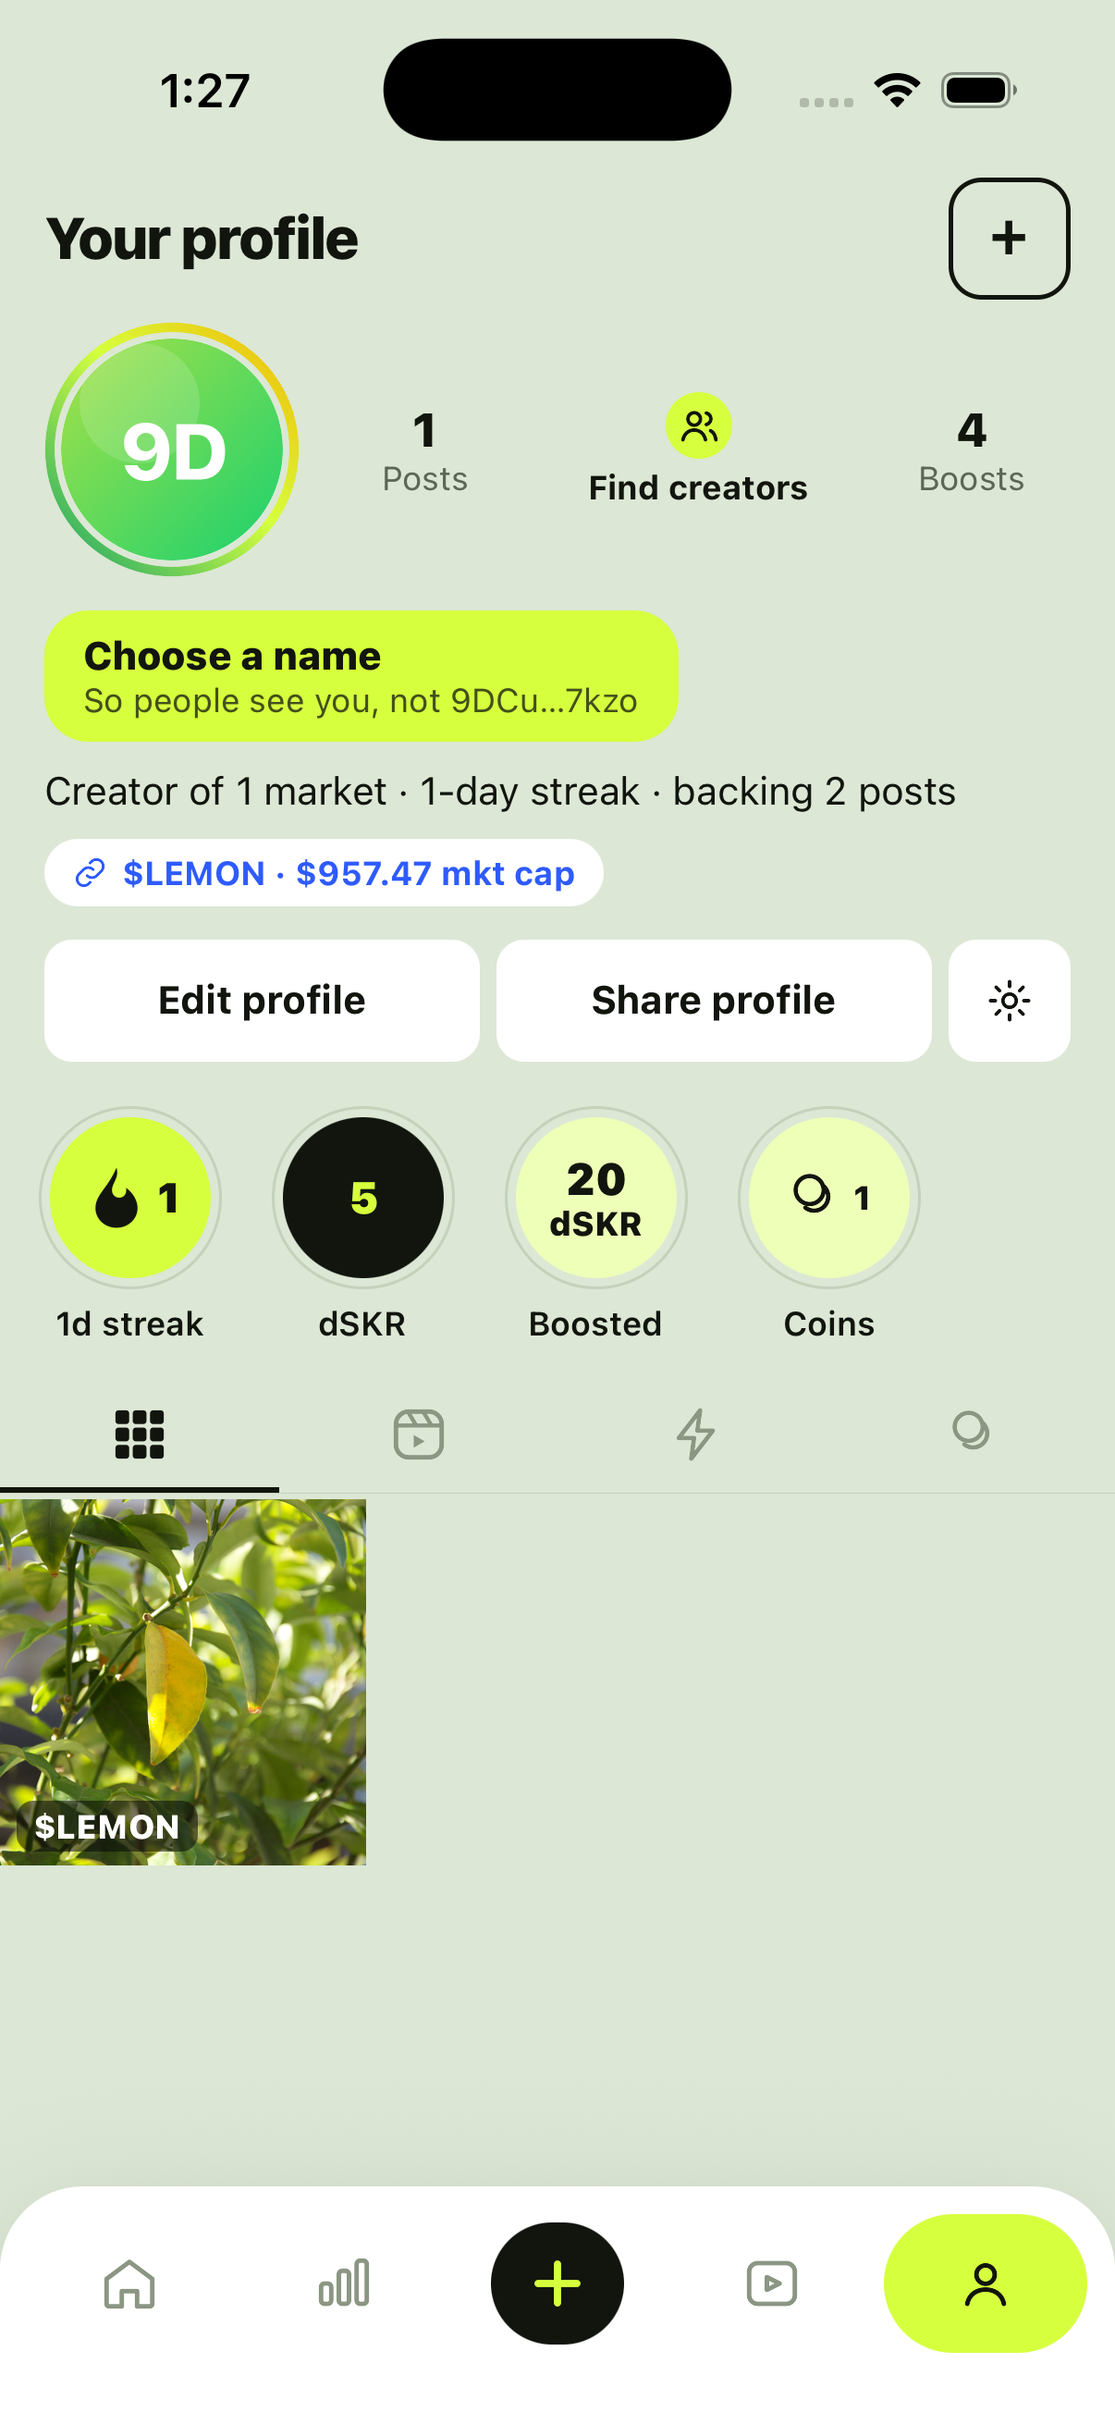
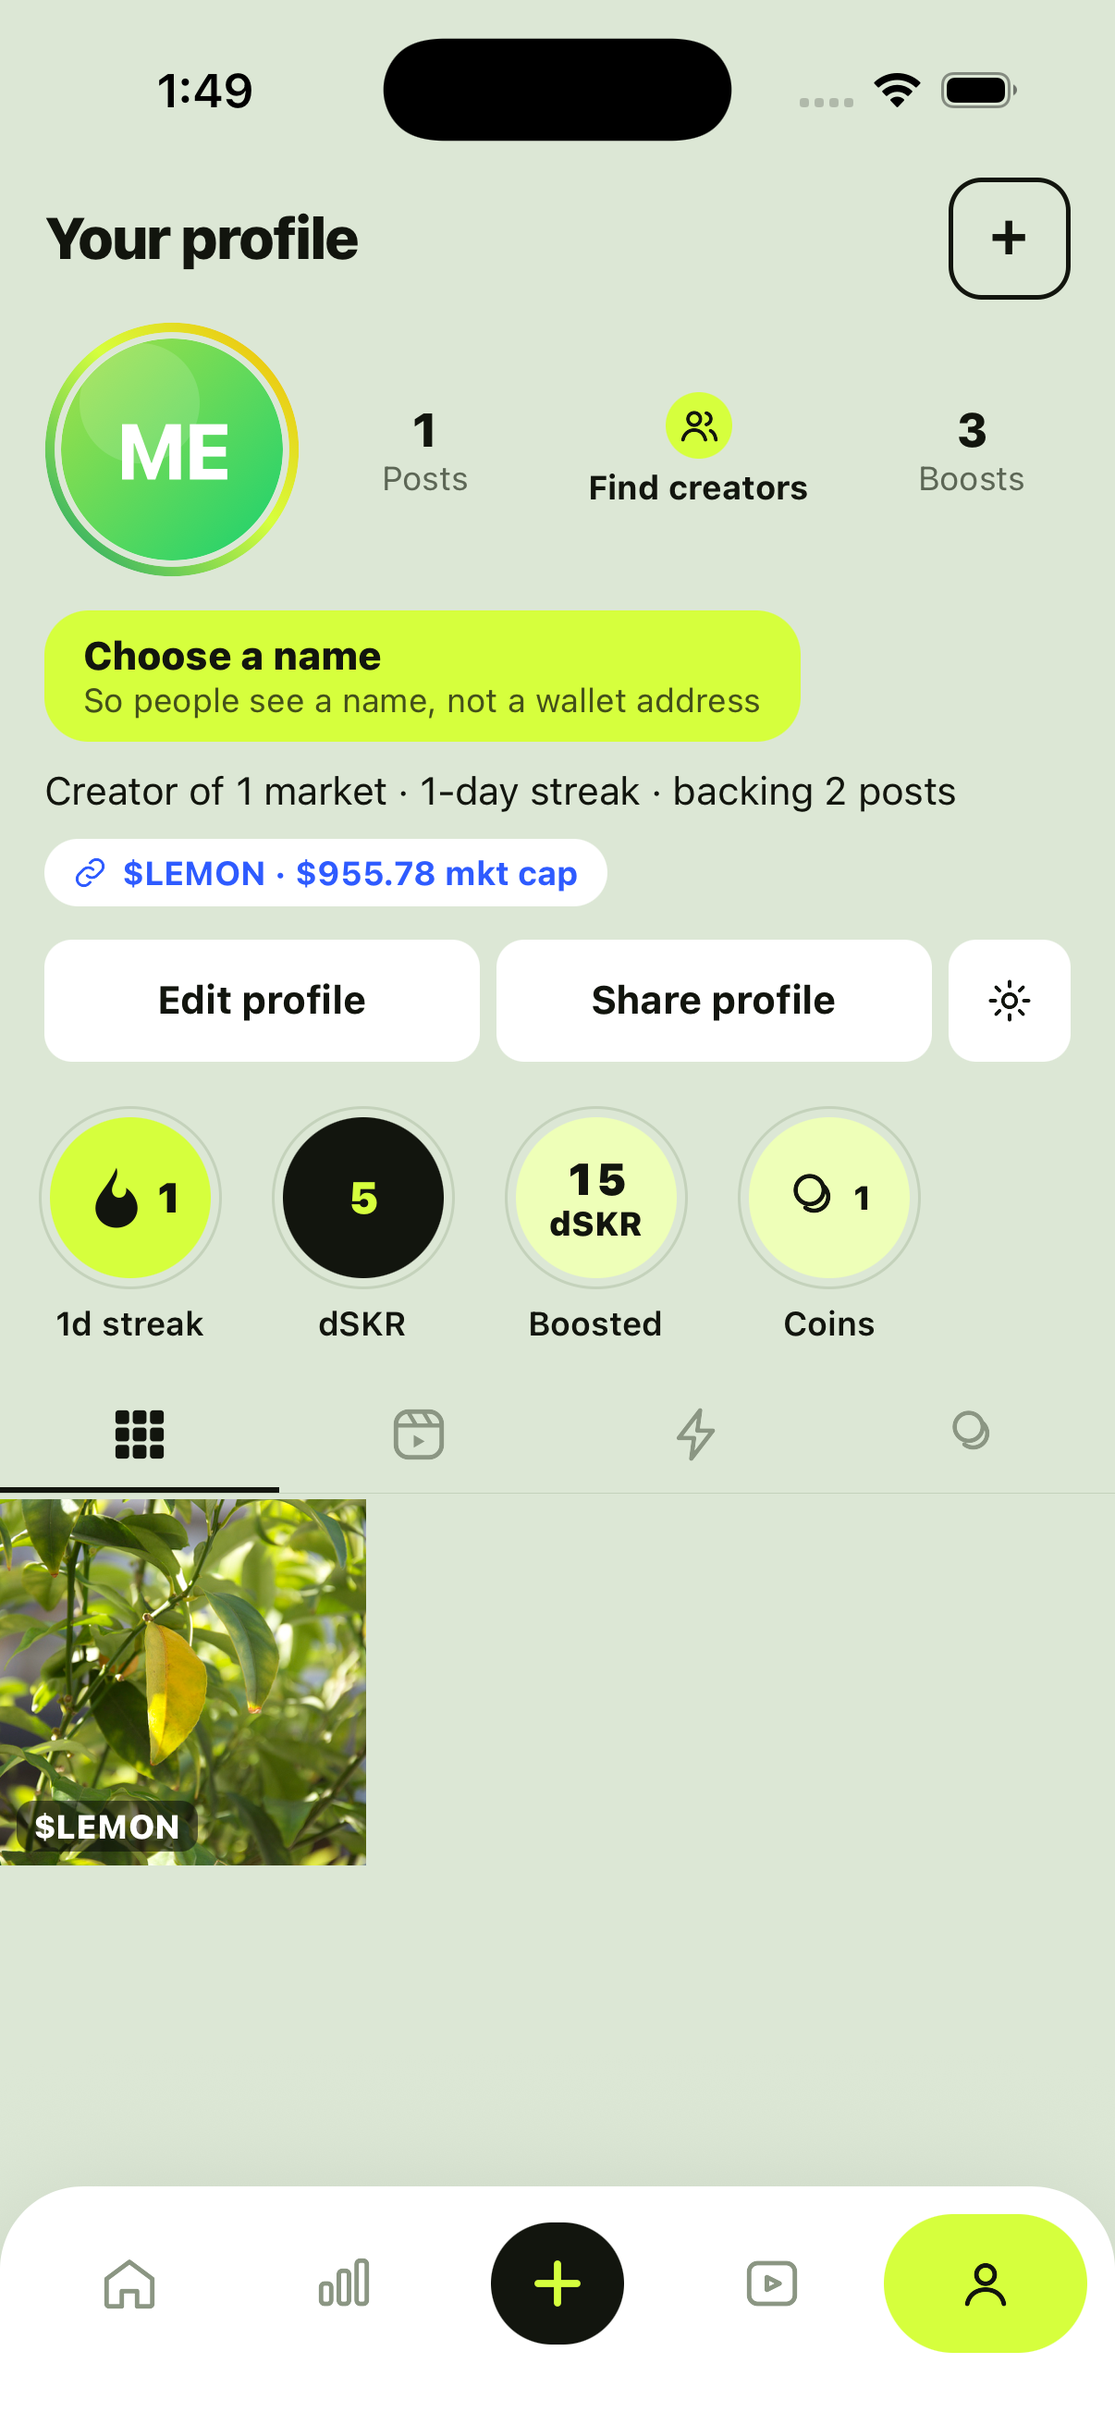
Juno polish: step sparklines from real fills, trending peek, aliases instead of addresses
Sparklines are drawn by time as steps and only from 3+ fills; fewer shows
'New' and a dashed line. Detail reads retry once. Trending cards are full
bleed with a gradient and the third card peeks. People without a name get a
stable alias, never base58, and seeded demo_ prefixes are hidden. Reels and
feed drop curve jargon; the wallet sheet drops the SIWS debug line.

diff --git a/juno-expo/components/trade/parts.tsx b/juno-expo/components/trade/parts.tsx
@@ -4,7 +4,7 @@ import { ScrollView, StyleSheet, Text, TextInput, View, type LayoutChangeEvent }
 import Svg, { Circle, Defs, LinearGradient, Line, Path, Rect, Stop, Text as SvgText } from "react-native-svg";
 
 import { juno, type Coin } from "../../lib/api";
-import { useName } from "../../lib/names";
+import { aliasFor, useName } from "../../lib/names";
 import { theme } from "../../theme";
 import { Identicon } from "../art";
 import { HeartGlyph, ReplyBubble } from "../icons";
@@ -23,6 +23,7 @@ const c = theme.colors;
  */
 export type CoinDetail = {
   points: number[];
+  times: number[];
   change: number | null;
 };
 
@@ -50,8 +51,14 @@ function limited<T>(task: () => Promise<T>): Promise<T> {
 function loadDetail(address: string): Promise<CoinDetail> {
   let pending = details.get(address);
   if (!pending) {
-    pending = limited(() => juno.coin(address)).then(({ coin }) => ({
-      points: (coin.priceHistory ?? []).map((p) => p.price).filter((p) => Number.isFinite(p) && p > 0),
+    const once = () => limited(() => juno.coin(address));
+    // One quiet retry: the server's chain reads are rate-limited at busy moments.
+    const read = once().catch(() => new Promise((r) => setTimeout(r, 3000)).then(once));
+    pending = read.then(({ coin }) => ({
+      ...(() => {
+        const rows = (coin.priceHistory ?? []).filter((p) => Number.isFinite(p.price) && p.price > 0);
+        return { points: rows.map((p) => p.price), times: rows.map((p) => Date.parse(p.t)) };
+      })(),
       change: coin.marketCapChangePct ?? null,
     }));
     pending.then(
@@ -93,9 +100,6 @@ export function useCoinDetail(address: string): { data: CoinDetail | null; error
 /* Names                                                               */
 /* ------------------------------------------------------------------ */
 
-const ADJ = ["lime", "quiet", "brave", "sunny", "swift", "lucky", "bold", "calm", "neon", "wild", "mellow", "keen"];
-const NOUN = ["otter", "falcon", "panda", "comet", "maple", "tiger", "koala", "heron", "lynx", "orca", "fox", "wren"];
-
 function hash(seed: string): number {
   let h = 2166136261;
   for (let i = 0; i < seed.length; i += 1) {
@@ -109,8 +113,7 @@ function hash(seed: string): number {
 export function useCreatorHandle(wallet: string): string {
   const name = useName(wallet);
   if (name) return name.includes(".") || name.startsWith("@") ? name : `@${name}`;
-  const n = hash(wallet);
-  return `@${ADJ[n % ADJ.length]}${NOUN[(n >>> 8) % NOUN.length]}`;
+  return `@${aliasFor(wallet)}`;
 }
 
 /* ------------------------------------------------------------------ */
@@ -153,15 +156,16 @@ export function GradientTile({ seed, symbol, w, h, radius }: { seed: string; sym
   );
 }
 
-export function CoinThumb({ coin, size = 56, radius = 16 }: { coin: Coin; size?: number; radius?: number }) {
+export function CoinThumb({ coin, size = 56, height, radius = 16 }: { coin: Coin; size?: number; height?: number; radius?: number }) {
   const uri = juno.still(coin.media);
   const [failed, setFailed] = useState(false);
-  if (!uri || failed) return <GradientTile seed={coin.address} symbol={coin.symbol} w={size} h={size} radius={radius} />;
+  const h = height ?? size;
+  if (!uri || failed) return <GradientTile seed={coin.address} symbol={coin.symbol} w={size} h={h} radius={radius} />;
   return (
     <ExpoImage
       source={{ uri }}
       onError={() => setFailed(true)}
-      style={{ width: size, height: size, borderRadius: radius, backgroundColor: c.surfaceAlt }}
+      style={{ width: size, height: h, borderRadius: radius, backgroundColor: c.surfaceAlt }}
       contentFit="cover"
       transition={150}
     />
@@ -177,24 +181,32 @@ export function Sparkline({ address, height = 34 }: { address: string; height?: 
   const [width, setWidth] = useState(0);
   const onLayout = (e: LayoutChangeEvent) => setWidth(Math.round(e.nativeEvent.layout.width));
   const points = data?.points ?? [];
-  const up = points.length < 2 || points[points.length - 1]! >= points[0]!;
+  const up = points.length < 3 || points[points.length - 1]! >= points[0]!;
   const stroke = up ? c.pos : c.neg;
 
   const path = useMemo(() => {
-    if (points.length < 2 || width === 0) return null;
+    if (points.length < 3 || width === 0) return null;
     const min = Math.min(...points);
     const max = Math.max(...points);
     const span = max - min || max * 0.02 || 1;
     const pad = 3;
+    // x by time, not by index, and held flat between fills: a curve only moves when someone trades.
+    const times = data?.times ?? [];
+    const t0 = times[0] ?? 0;
+    const t1 = Math.max(Date.now(), times[times.length - 1] ?? 0);
+    const byTime = times.length === points.length && t1 > t0;
     const xy = points.map((p, i) => [
-      (i / (points.length - 1)) * width,
+      byTime ? ((times[i]! - t0) / (t1 - t0)) * width : (i / (points.length - 1)) * width,
       pad + (1 - (p - min) / span) * (height - pad * 2),
     ]);
-    const line = xy.map(([x, y], i) => `${i === 0 ? "M" : "L"}${x!.toFixed(1)},${y!.toFixed(1)}`).join(" ");
+    if (byTime) xy.push([width, xy[xy.length - 1]![1]!]);
+    const line = xy
+      .map(([x, y], i) => (i === 0 ? `M${x!.toFixed(1)},${y!.toFixed(1)}` : `H${x!.toFixed(1)} V${y!.toFixed(1)}`))
+      .join(" ");
     return { line, area: `${line} L${width},${height} L0,${height} Z` };
-  }, [points, width, height]);
+  }, [points, data, width, height]);
 
-  const note = !data && !error ? null : error ? "Chart unavailable" : points.length === 0 ? "No trades yet" : points.length === 1 ? "First trade in" : null;
+  const note = !data && !error ? null : error ? "Chart is catching up" : points.length === 0 ? "No trades yet" : points.length < 3 ? "Just a few trades so far" : null;
   const id = `sp${hash(address).toString(36)}`;
 
   return (
@@ -236,9 +248,10 @@ export function Sparkline({ address, height = 34 }: { address: string; height?: 
 }
 
 export function ChangeChip({ address }: { address: string }) {
-  const { data } = useCoinDetail(address);
+  const { data, error } = useCoinDetail(address);
+  if (error) return null;
   if (!data) return <View style={[styles.chip, { backgroundColor: c.surfaceAlt, width: 52 }]} />;
-  if (data.points.length === 0) {
+  if (data.points.length < 3) {
     return (
       <View style={[styles.chip, { backgroundColor: c.limeSoft }]}>
         <Text style={[styles.chipText, { color: c.onLime }]}>New</Text>

diff --git a/juno-expo/components/profile/ProfileView.tsx b/juno-expo/components/profile/ProfileView.tsx
@@ -42,7 +42,7 @@ import { juno, type Coin, type Position } from "../../lib/api";
 import { findSeekerGenesisToken, readWalletActivity, type BoostGiven } from "../../lib/clockin";
 import { useClockIn } from "../../lib/clockinContext";
 import { count, loadMarkets } from "../../lib/markets";
-import { shortAddress, useName } from "../../lib/names";
+import { aliasFor, shortAddress, useName } from "../../lib/names";
 import { appUrl, useFollow } from "../../lib/social";
 import { explorerTx, SKR_DEVNET_MINT, SKR_LABEL, SKR_SHORT, tokenBalance } from "../../lib/solana";
 import { money, tokens, useApi } from "../../lib/useApi";
@@ -182,8 +182,8 @@ export function ProfileView({
         (follow.following === true && stats.data.viewerFollows === false ? 1 : 0) -
         (follow.following === false && stats.data.viewerFollows === true ? 1 : 0);
 
-  const displayName = (self ? me.skrName : null) ?? name ?? shortAddress(wallet);
-  const handle = name ? `@${name}` : shortAddress(wallet);
+  const displayName = (self ? me.skrName : null) ?? name ?? aliasFor(wallet);
+  const handle = `@${name ?? aliasFor(wallet)}`;
   const bio = useMemo(() => {
     const parts: string[] = [];
     if (posts.length > 0) parts.push(`Creator of ${posts.length} ${posts.length === 1 ? "market" : "markets"}`);
@@ -293,7 +293,7 @@ export function ProfileView({
               accessibilityLabel={liveToday ? `Streak alive, ${streak} days` : "Streak"}
             >
               <StoryRing size={92} state={liveToday ? "live" : streak > 0 ? "risk" : "none"}>
-                <Identicon seed={wallet} size={80} label={name ?? wallet.slice(0, 2)} />
+                <Identicon seed={wallet} size={80} label={displayName} />
               </StoryRing>
             </Pressable>
             <View style={styles.stats}>
@@ -325,7 +325,7 @@ export function ProfileView({
           {/* Identity */}
           <View style={styles.identity}>
             {name ? <Text style={styles.name}>{displayName}</Text> : null}
-            {name ? <Text style={styles.subHandle}>{shortAddress(wallet)}</Text> : null}
+            {null}
             {self && !name ? (
               <Pressable
                 onPress={() => setSheet("edit")}
@@ -334,7 +334,7 @@ export function ProfileView({
                 accessibilityLabel="Choose a name"
               >
                 <Text style={styles.namePromptTitle}>Choose a name</Text>
-                <Text style={styles.namePromptSub}>So people see you, not {shortAddress(wallet)}</Text>
+                <Text style={styles.namePromptSub}>So people see a name, not a wallet address</Text>
               </Pressable>
             ) : null}
             <Text style={styles.bio}>{bio}</Text>
@@ -611,7 +611,7 @@ export function ProfileView({
                     >
                       <CoinArt uri={coin ? juno.still(coin.media) : null} seed={boost.coin} size={38} radius={10} />
                       <Text style={styles.sheetRowTitle} numberOfLines={1}>
-                        {coin ? coin.name : shortAddress(boost.coin)}
+                        {coin ? coin.name : "A post"}
                       </Text>
                       <View style={{ flexDirection: "row", alignItems: "center", gap: 3 }}>
                         <BoltGlyph size={14} color={theme.colors.text} filled />

diff --git a/juno-expo/components/trade/cards.tsx b/juno-expo/components/trade/cards.tsx
@@ -165,7 +165,7 @@ export function Trending({ coins, onOpen }: { coins: Coin[]; onOpen: (coin: Coin
         contentContainerStyle={{ gap: 12, paddingHorizontal: 16 }}
         style={{ marginHorizontal: -16 }}
         decelerationRate="fast"
-        snapToInterval={160}
+        snapToInterval={170}
       >
         {coins.map((coin, index) => (
           <TrendingCard key={coin.address} coin={coin} rank={index + 1} onPress={() => onOpen(coin)} />
@@ -176,8 +176,8 @@ export function Trending({ coins, onOpen }: { coins: Coin[]; onOpen: (coin: Coin
 }
 
 function TrendingCard({ coin, rank, onPress }: { coin: Coin; rank: number; onPress: () => void }) {
-  const W = 148;
-  const H = 196;
+  const W = 158;
+  const H = 204;
   const ticker = stockTicker(coin);
   const handle = useCreatorHandle(coin.creator.wallet);
   return (
@@ -188,14 +188,14 @@ function TrendingCard({ coin, rank, onPress }: { coin: Coin; rank: number; onPre
             <StockLogo ticker={ticker} seed={coin.address} size={72} />
           </View>
         ) : (
-          <CoinThumb coin={coin} size={W} radius={0} />
+          <CoinThumb coin={coin} size={W} height={H} radius={0} />
         )}
-        {!ticker ? <View style={{ position: "absolute", left: 0, right: 0, top: W, height: H - W, backgroundColor: c.ink }} /> : null}
         <Svg width={W} height={H} style={StyleSheet.absoluteFill} pointerEvents="none">
           <Defs>
             <LinearGradient id={`tg${rank}`} x1="0" y1="0" x2="0" y2="1">
-              <Stop offset="0.35" stopColor={c.ink} stopOpacity={0} />
-              <Stop offset="0.78" stopColor={c.ink} stopOpacity={0.92} />
+              <Stop offset="0.3" stopColor={c.ink} stopOpacity={0} />
+              <Stop offset="0.62" stopColor={c.ink} stopOpacity={0.6} />
+              <Stop offset="1" stopColor={c.ink} stopOpacity={0.95} />
             </LinearGradient>
           </Defs>
           <Rect x={0} y={0} width={W} height={H} fill={`url(#tg${rank})`} />
@@ -357,7 +357,7 @@ const local = StyleSheet.create({
   gradPill: { height: 34, paddingHorizontal: 14, borderRadius: 17, backgroundColor: c.surfaceAlt, alignItems: "center", justifyContent: "center" },
   gradText: { fontSize: 13, fontWeight: "700", color: c.muted },
   section: { fontSize: 18, fontWeight: "800", color: c.text, letterSpacing: -0.3 },
-  trend: { width: 148, height: 196, borderRadius: 20, overflow: "hidden", backgroundColor: c.ink, ...theme.shadow.card },
+  trend: { width: 158, height: 204, borderRadius: 20, overflow: "hidden", backgroundColor: c.ink, ...theme.shadow.card },
   rank: { position: "absolute", top: 10, left: 10, height: 24, paddingHorizontal: 9, borderRadius: 12, backgroundColor: c.lime, justifyContent: "center" },
   rankText: { fontSize: 12, fontWeight: "800", color: c.onLime },
   trendBody: { position: "absolute", left: 12, right: 12, bottom: 12, gap: 1 },

diff --git a/juno-expo/lib/names.ts b/juno-expo/lib/names.ts
@@ -57,6 +57,25 @@ export function shortAddress(wallet: string): string {
   return `${wallet.slice(0, 4)}…${wallet.slice(-4)}`;
 }
 
+const ADJ = ["lime", "quiet", "brave", "sunny", "swift", "lucky", "bold", "calm", "neon", "wild", "mellow", "keen"];
+const NOUN = ["otter", "falcon", "panda", "comet", "maple", "tiger", "koala", "heron", "lynx", "orca", "fox", "wren"];
+
+/** A stable, readable alias for a wallet with no name, so the UI never prints base58 as a person. */
+export function aliasFor(wallet: string): string {
+  let h = 2166136261;
+  for (let i = 0; i < wallet.length; i += 1) {
+    h ^= wallet.charCodeAt(i);
+    h = Math.imul(h, 16777619);
+  }
+  const n = h >>> 0;
+  return `${ADJ[n % ADJ.length]}${NOUN[(n >>> 8) % NOUN.length]}`;
+}
+
+/** Seeded demo accounts carry a `demo_` prefix in the registry; people never see it. */
+export function cleanName(name: string | null): string | null {
+  return name ? name.replace(/^demo[_-]/i, "") : name;
+}
+
 /** This wallet's name, or null while unknown or when it has none. */
 export function useName(wallet: string | null | undefined): string | null {
   const [name, setName] = useState<string | null>(wallet ? (known.get(wallet) ?? null) : null);
@@ -76,12 +95,12 @@ export function useName(wallet: string | null | undefined): string | null {
     };
   }, [wallet]);
 
-  return name;
+  return cleanName(name);
 }
 
-/** What to print for a person: their name, or their short address. */
+/** What to print for a person: their name, or a stable alias (never the address). */
 export function useHandle(wallet: string | null | undefined): string {
   const name = useName(wallet);
   if (!wallet) return "";
-  return name ?? shortAddress(wallet);
+  return name ?? aliasFor(wallet);
 }

diff --git a/juno-expo/app/coin/[mint].tsx b/juno-expo/app/coin/[mint].tsx
@@ -46,6 +46,7 @@ import { money, since, tokens, useApi } from "../../lib/useApi";
 import { bigMoney } from "../../lib/markets";
 import { shareCoin } from "../../lib/social";
 import { signAndSubmit, useWallet } from "../../lib/wallet";
+import { CURVE_PRESETS } from "../../components/composer/CurveCard";
 import { theme } from "../../theme";
 
 /**
@@ -778,7 +779,7 @@ function DetailsTab({
         <DetailRow label="Ticker" value={coin.symbol} shaded={false} copied={copied === "ticker"} onCopy={() => void copy("ticker", coin.symbol)} />
         <DetailRow label="Network" value={`Solana · ${cluster}`} shaded />
         <DetailRow label="Quote" value={coin.quote.symbol} shaded={false} />
-        <DetailRow label="Curve" value={coin.curvePreset} shaded />
+        <DetailRow label="Curve" value={CURVE_PRESETS.find((p) => p.id === coin.curvePreset)?.label ?? coin.curvePreset} shaded />
         <DetailRow label="Format" value={coin.format === "reel" ? "Reel" : "Post"} shaded={false} />
         <DetailRow
           label="Pool"

diff --git a/juno-expo/components/WalletCard.tsx b/juno-expo/components/WalletCard.tsx
@@ -63,7 +63,7 @@ export function WalletCard({ address }: { address: string }) {
     <View style={styles.card}>
       <NameEditor address={address} />
       {wallet.address === address && wallet.skrName ? <Text style={styles.name}>{wallet.skrName}</Text> : null}
-      {wallet.address === address ? <Text style={styles.label}>{wallet.siws ? `SIWS verified · ${wallet.siws.signer}` : "No sign-in proof in this session"}</Text> : null}
+      {wallet.address === address && wallet.siws ? <Text style={styles.label}>Signed in with Solana ✓</Text> : null}
       <View style={styles.head}>
         <Text style={styles.label}>Wallet · devnet</Text>
         <Tappable onPress={() => void copy()} to={0.95} accessibilityRole="button" accessibilityLabel="Copy address">

diff --git a/juno-expo/app/(tabs)/reels.tsx b/juno-expo/app/(tabs)/reels.tsx
@@ -447,11 +447,8 @@ function Reel({
         <View style={styles.chips}>
           <Pressable onPress={onOpenCoin} style={styles.chip}>
             <Text style={styles.chipStrong}>${coin.symbol}</Text>
-            <Text style={styles.chipText}>{money(coin.priceUsd, coin.marketCapCurrency, { compact: false })}</Text>
+            <Text style={styles.chipText}>{coin.holders ? `${coin.holders} holders` : "View coin"}</Text>
           </Pressable>
-          <View style={styles.chip}>
-            <Text style={styles.chipText}>{coin.curvePreset} curve</Text>
-          </View>
         </View>
       </View>
 

diff --git a/juno-expo/components/FeedCard.tsx b/juno-expo/components/FeedCard.tsx
@@ -123,7 +123,7 @@ export function FeedCard({
               {handle}
             </Text>
             <Text style={styles.meta} numberOfLines={1}>
-              {since(coin.createdAt)} · {coin.curvePreset} curve
+              {since(coin.createdAt)} · {money(coin.marketCap, coin.marketCapCurrency)} mkt cap
             </Text>
           </View>
         </Pressable>
